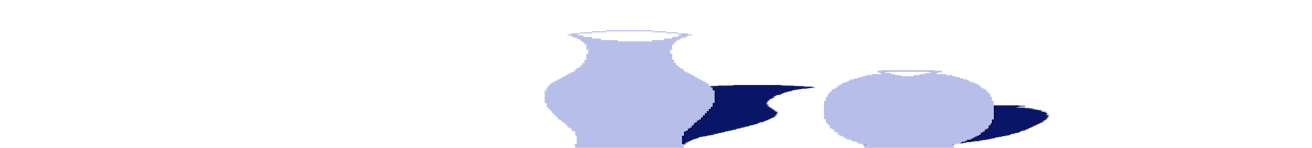
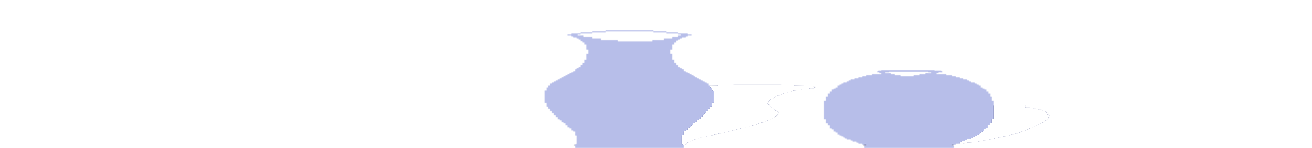
5/6 touchups

Changed region(s): [[0.5, 0.5676, 0.625, 0.973], [0.7188, 0.7027, 0.8125, 0.973]]

diff --git a/css/main.css b/css/main.css
@@ -47,10 +47,9 @@ html {
   justify-content: center;
   background-color: var(--primary-color-light);
   background-size: 1310px;
-  background-image: url(../Icons/pots.png), url(../Icons/gridbackground.png);
+  background-image: url(../Icons/pots.png), linear-gradient(to bottom, #5863a8, var(--primary-color-bright));
   background-repeat: no-repeat;
   background-size: 100%;
-  background-position: 0px -20px;
   color: var(--white);
   width: 100%;
   gap: 10px;
@@ -241,8 +240,8 @@ section {
   display: grid;
   grid-template-columns: 1fr 1fr;
   border: 10px solid var(--black);
-  -o-border-image: url(../Icons/canvasbox.png) 1% round;
-     border-image: url(../Icons/canvasbox.png) 1% round;
+  -o-border-image: url(../Icons/canvasbox3.png) 1% round;
+     border-image: url(../Icons/canvasbox3.png) 1% round;
 }
 
 .drawing-board {
@@ -250,8 +249,8 @@ section {
   flex: 1;
   position: relative;
   border: 10px solid var(--black);
-  -o-border-image: url(../Icons/canvasbox.png) 1% round;
-     border-image: url(../Icons/canvasbox.png) 1% round;
+  -o-border-image: url(../Icons/canvasbox2.png) 1% round;
+     border-image: url(../Icons/canvasbox2.png) 1% round;
   background-image: linear-gradient(to bottom, var(--primary-color-bright), #5863a8);
   box-shadow: var(--black) 0px 4px 30px -12px inset, var(--black) 0px 12px 36px -18px inset;
 }
@@ -279,7 +278,7 @@ section {
   text-align: start;
   pointer-events: none;
   position: absolute;
-  top: 11%;
+  top: 10.5%;
   left: 54%;
   width: 70%;
   z-index: 0;

diff --git a/css/main.scss b/css/main.scss
@@ -51,10 +51,9 @@ html {
       justify-content: center;
     background-color: var(--primary-color-light);
     background-size: 1310px;
-    background-image: url(../Icons/pots.png), url(../Icons/gridbackground.png);
+    background-image: url(../Icons/pots.png), linear-gradient(to bottom, #5863a8, var(--primary-color-bright));
     background-repeat: no-repeat;
     background-size: 100%;
-    background-position: 0px -20px;
     color: var(--white);
     width: 100%;
     gap: 10px;
@@ -231,7 +230,7 @@ border-color: #111111;
     display: grid;
     grid-template-columns: 1fr 1fr;
     border: 10px solid var(--black);
-    border-image: url(../Icons/canvasbox.png) 1% round;
+    border-image: url(../Icons/canvasbox3.png) 1% round;
     
 }
 
@@ -240,7 +239,7 @@ border-color: #111111;
     flex: 1;
     position: relative;
      border: 10px solid var(--black);
-    border-image: url(../Icons/canvasbox.png) 1% round;
+    border-image: url(../Icons/canvasbox2.png) 1% round;
     background-image: linear-gradient(to bottom, var(--primary-color-bright), #5863a8);
     box-shadow: var(--black) 0px 4px 30px -12px inset, var(--black) 0px 12px 36px -18px inset;
 
@@ -268,7 +267,7 @@ border-color: #111111;
         text-align: start;
         pointer-events: none;
         position: absolute;
-        top: 11%;
+        top: 10.5%;
         left: 54%;
         width: 70%;
         z-index: 0;